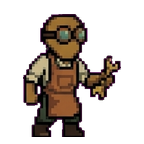
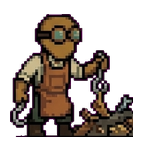
Hold the scavenging pose still until it is redrawn
Gemini drew scavenging's two frames as different scenes: crouched at a
scrap pile with a hook, then standing with a wrench and no pile. Swapped
every beat, the Tinker jumped and the pile blinked in and out.

The import now uses the crouched frame for both, and the scene puts dust
and a glint at the pile each beat so the work still shows. The art list
asks Gemini for a matched pair.

diff --git a/engine/packages/client/src/Sprite.tsx b/engine/packages/client/src/Sprite.tsx
@@ -260,6 +260,10 @@ export function Scene({ tinker, content, progress, working }: { tinker: Tinker; 
       add({ x: 128, y: FLOOR - 20, kind: "dust" });
     } else if (pose === "tinker") {
       add({ x: 124, y: FLOOR - 52, kind: "glint" });
+    } else if (pose === "scavenge") {
+      // Its two frames are one held pose for now, so the rummaging shows in the pile.
+      add({ x: 128, y: FLOOR - 18, kind: "dust" });
+      if (tick % 4 === 1) add({ x: 118, y: FLOOR - 34, kind: "glint" });
     }
     // Fires once per beat of the shared clock.
     // eslint-disable-next-line react-hooks/exhaustive-deps

diff --git a/scripts/art/import_art.py b/scripts/art/import_art.py
@@ -289,7 +289,10 @@ def main() -> None:
     working = fit_frames(tinker[:14], CHARACTER)
     for index, pose in enumerate(TINKER_POSES[:-1]):
         for frame in (0, 1):
-            save(working[index * 2 + frame], f"tinker_{pose}_{frame}")
+            # Gemini drew scavenging's second frame as another scene (no pile, a wrench, standing),
+            # so the two flicker between poses; hold the first until a matching pair is drawn.
+            source = index * 2 if pose == "scavenge" else index * 2 + frame
+            save(working[source], f"tinker_{pose}_{frame}")
             written += 1
     for frame, image in enumerate(fit_frames(tinker[14:], PORTRAIT)):
         save(image, f"tinker_bare_portrait_{frame}")

diff --git a/docs/art-requests.md b/docs/art-requests.md
@@ -98,6 +98,7 @@ Every sheet above was drawn and is in the game. The originals are kept in `art/c
 
 - **Rust Rats:** Gemini painted labels into the sheet; the import finds each rat by shape, so a relabelled or uneven sheet still works, but small smoke puffs are dropped with the labels.
 - **Scrapjaw:** the second attack frame runs off the left of its cell, so its tail is clipped.
+- **Still needed: a matching pair for Scavenging.** Gemini drew its second frame as another scene: no scrap pile, standing, holding a wrench. The game holds the first frame for both until a pair is redrawn. Prompt, same format as Sheet 5, 2 frames side by side: `[pixel-art block] The same young Tinker in goggles and a patched leather apron, side view facing right, crouched over a scrap pile digging with a hook, 2 frames: the hook going into the pile, then the hook pulling out a bent nail. The pile, the Tinker's position and size are identical in both frames; only the arm, hook and a few bits of scrap move. [format block]`
 - **Still needed: the Tinker holding each weapon.** The real Tinker is drawn bare-handed, so until then every weapon shows the bare-handed Tinker in fights and in the Loadout. One sheet: the Tinker with each of the 14 weapons (Sheet B), idle and attacking, two frames each, same format as Sheet 5.
 
 ## Order of work
